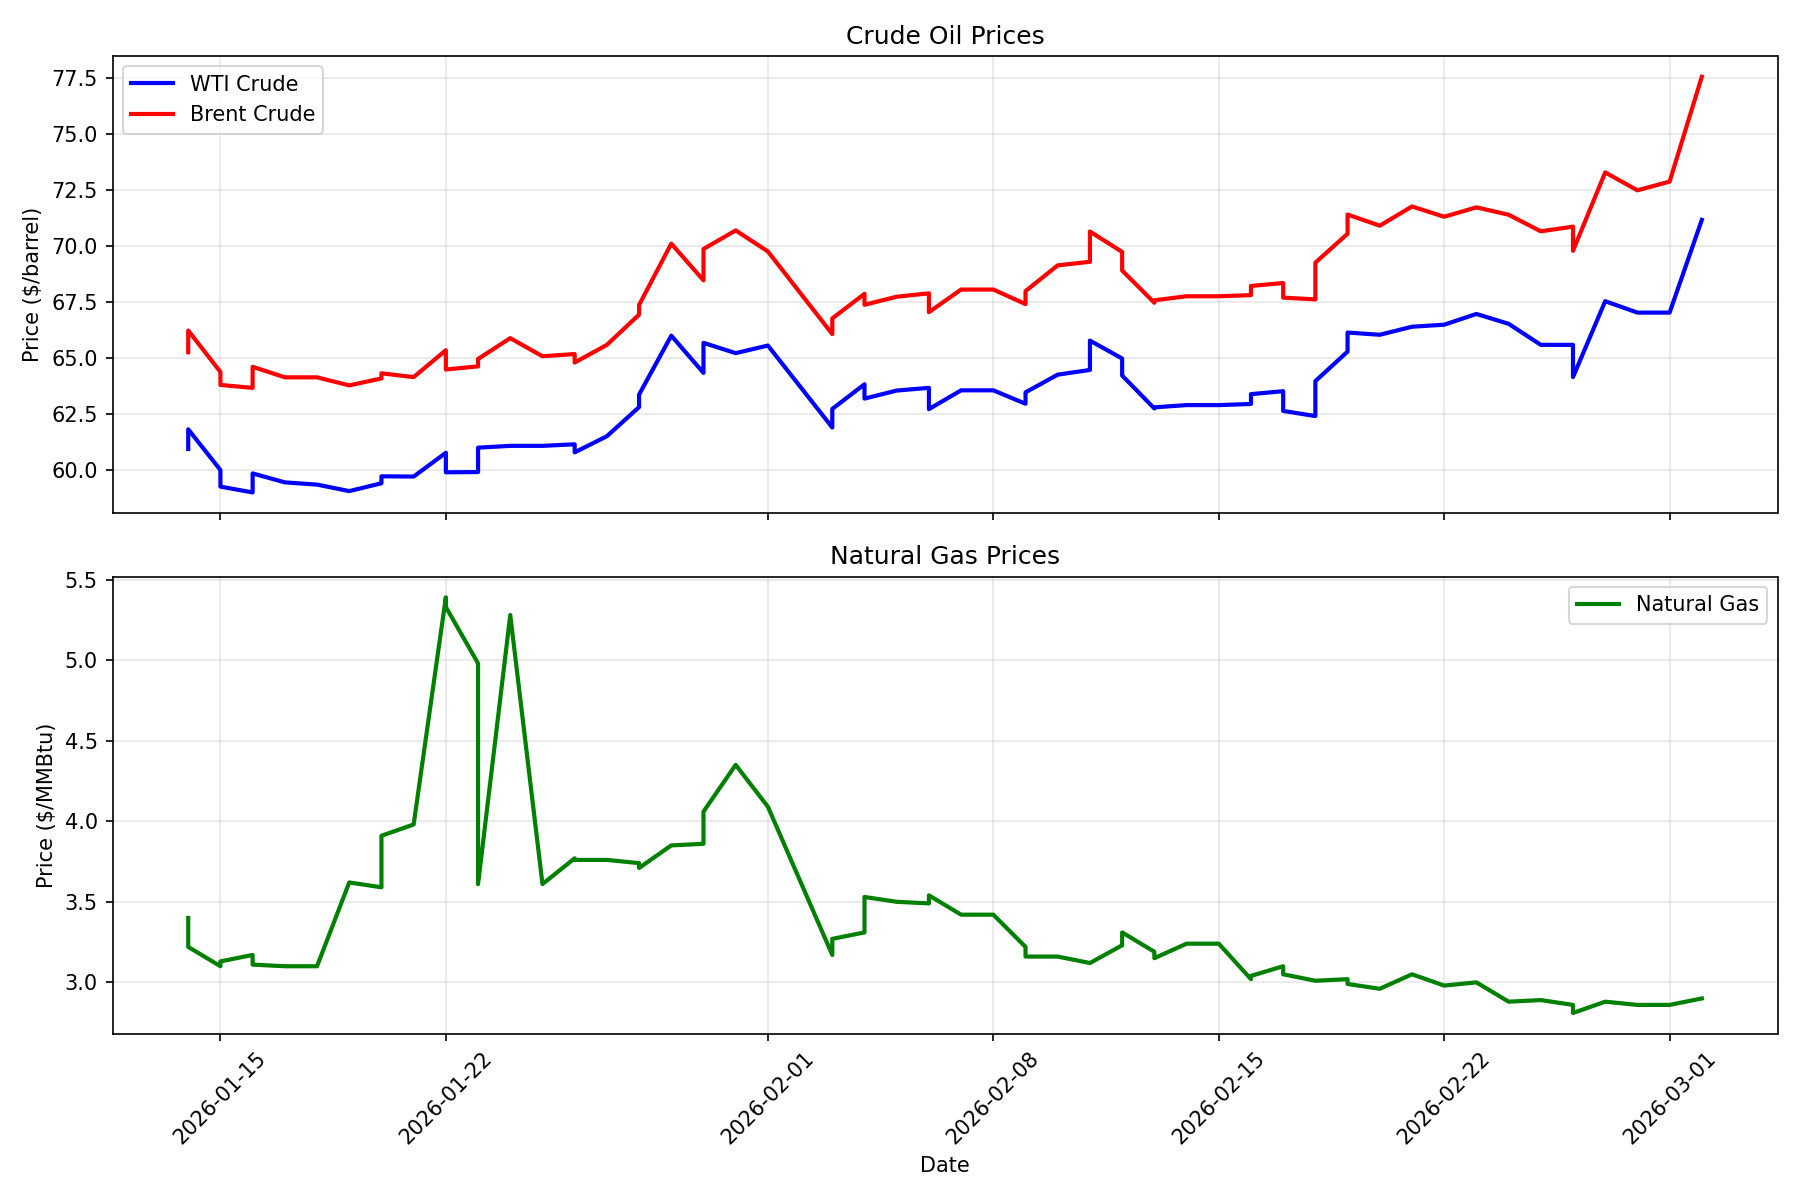
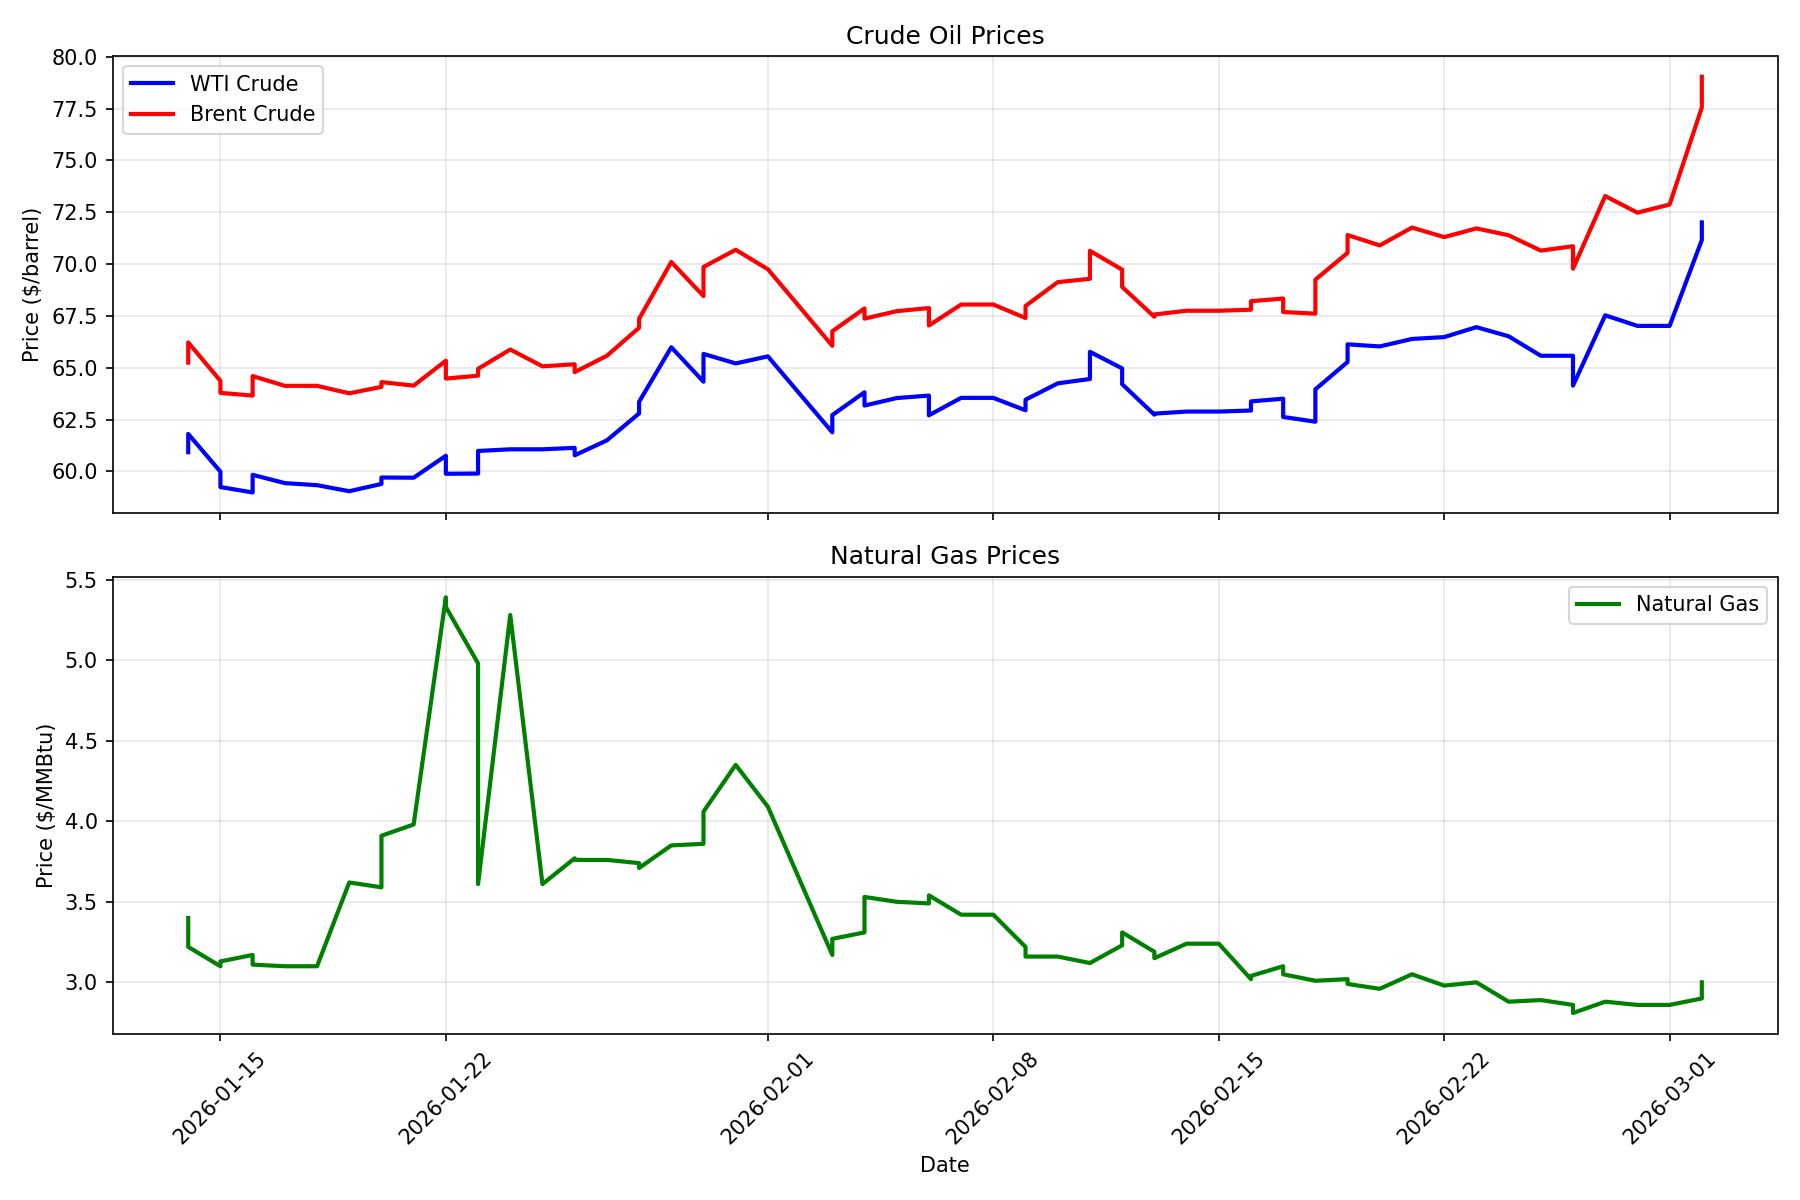
Daily price update: 2026-03-02

diff --git a/README.md b/README.md
@@ -8,10 +8,10 @@ Automated daily tracking of chemical commodity prices and chemical company stock
 
 | Commodity | Price | Change (24h) | Unit |
 |-----------|-------|--------------|------|
-| WTI Crude Oil | $71.16 | +0.00 (+0.00%) | $/barrel |
-| Brent Crude Oil | $77.55 | +0.00 (+0.00%) | $/barrel |
-| Natural Gas | $2.90 | +0.00 (+0.00%) | $/MMBtu |
-| Heating Oil | $2.83 | +0.00 (+0.00%) | $/gallon |
+| WTI Crude Oil | $72.01 | +0.00 (+0.00%) | $/barrel |
+| Brent Crude Oil | $79.03 | +0.00 (+0.00%) | $/barrel |
+| Natural Gas | $3.00 | +0.00 (+0.00%) | $/MMBtu |
+| Heating Oil | $2.76 | +0.00 (+0.00%) | $/gallon |
 
 ### Chemical Company Stocks
 

diff --git a/logs/update_log.md b/logs/update_log.md
@@ -89,3 +89,4 @@ Daily updates to the chemical engineering data repository.
 - **2026-03-01 00:02:14**: Updated 4 energy prices, 8 stocks, 0 FRED series
 - **2026-03-01 14:16:08**: Updated 4 energy prices, 8 stocks, 0 FRED series
 - **2026-03-02 00:00:03**: Updated 4 energy prices, 8 stocks, 0 FRED series
+- **2026-03-02 14:14:40**: Updated 4 energy prices, 8 stocks, 0 FRED series
